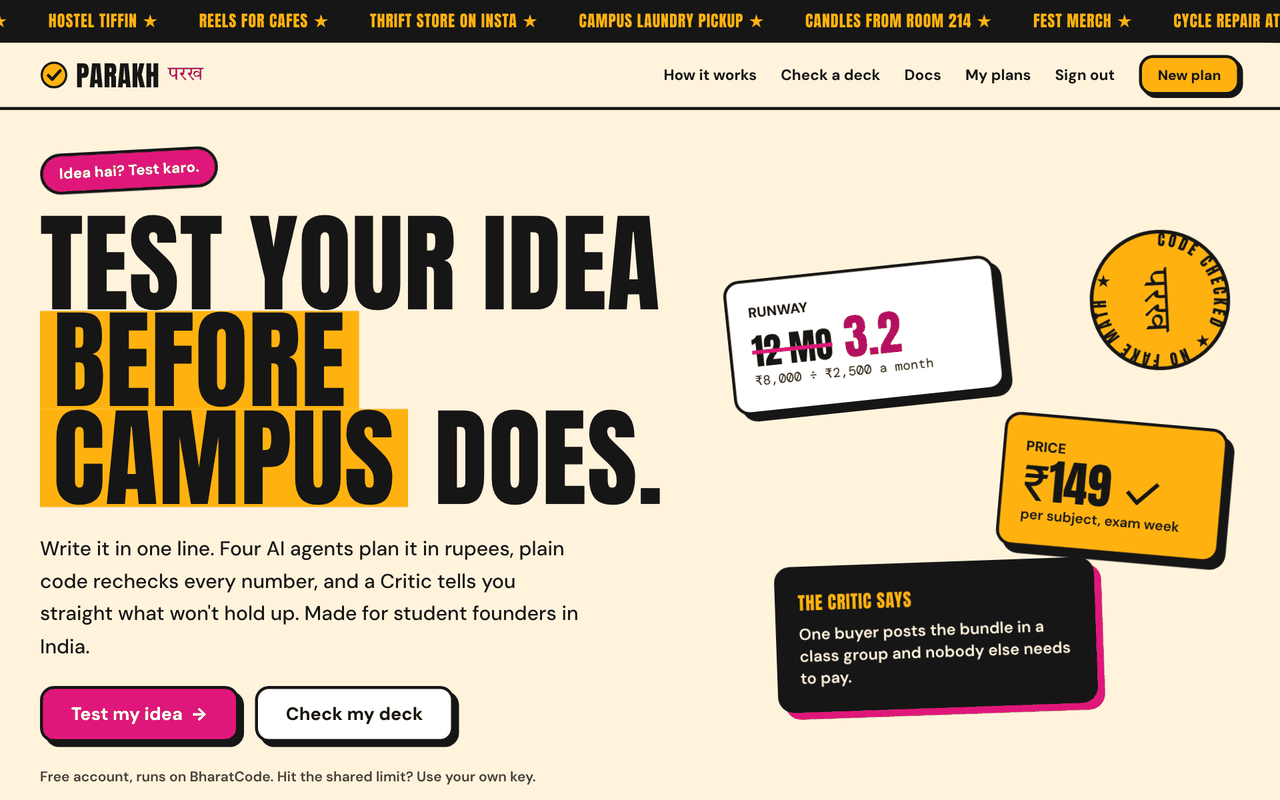
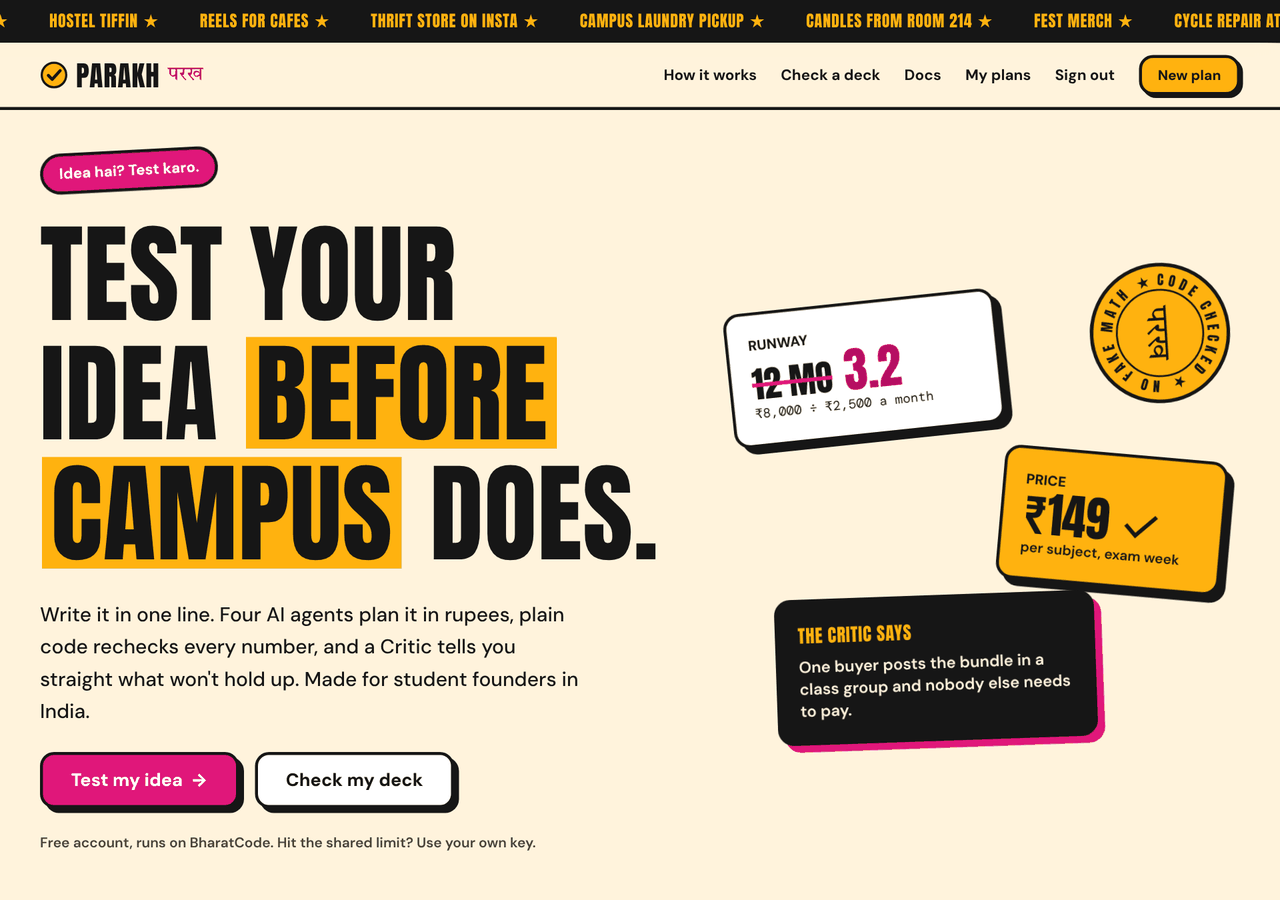
README: fresh screenshots of the deployed UI, plus the new chat
Retaken from commit 843d648 (the deployed one) with the real fonts: even
heading highlights, the new stamp, and the Claude-style chat. Test count
badge updated to 110.

Claude-Session: https://claude.ai/code/session_01FLQTQNoyvFKWee6FJtSirA

diff --git a/README.md b/README.md
@@ -16,7 +16,7 @@ Type your startup idea in one line. Four AI agents plan it in rupees, plain Pyth
 ![Next.js](https://img.shields.io/badge/Next.js-16-000000?logo=nextdotjs&logoColor=white)
 ![Tailwind](https://img.shields.io/badge/Tailwind-v4-06B6D4?logo=tailwindcss&logoColor=white)
 ![Supabase](https://img.shields.io/badge/Supabase-auth%20%2B%20Postgres-3ECF8E?logo=supabase&logoColor=white)
-![Tests](https://img.shields.io/badge/tests-106%20passing-2EA44F)
+![Tests](https://img.shields.io/badge/tests-110%20passing-2EA44F)
 
 [Features](#what-parakh-does) · [How it works](#how-it-works) · [AI providers](#ai-providers-bharatcode-first) · [Results](#measured-results) · [Run it locally](#run-it-locally) · [Deploy](#deploy) · [API](#api-reference)
 
@@ -107,7 +107,11 @@ BharatCode runs everything by default, free on the shared quota. If you already 
 
 ### 💬 Ask the agents
 
-After the plan, ask follow-ups like "@Economics what if I charge ₹99?" and get answers grounded in your plan's numbers, in English or **Hinglish**.
+After the plan, ask follow-ups like "@Economics what if I charge ₹99?" and get answers grounded in your plan's numbers, in English or **Hinglish**. Pick an agent with one click, and the answer comes back formatted, with the working shown.
+
+<div align="center">
+<img src="docs/images/chat.png" alt="Asking the Economics agent what happens at a ₹99 price" width="760">
+</div>
 
 ### 🔗 Share, privately by default
 
@@ -448,7 +452,7 @@ Visitors' own provider keys are **not** configuration. They're pasted in the app
 ### Automated
 
 ```bash
-python -m pytest            # 106 tests, every model call faked, no key needed
+python -m pytest            # 110 tests, every model call faked, no key needed
 ```
 
 | File | Covers |
@@ -589,7 +593,7 @@ parakh/
 ├── render.yaml            Render blueprint for the API
 ├── BharatCode.txt         how Parakh uses BharatCode (hackathon requirement)
 ├── scripts/               eval harness, price check, example plan, BharatCode probe
-├── tests/                 106 pytest tests, every model call faked
+├── tests/                 110 pytest tests, every model call faked
 ├── examples/              a sample deck slide with 4 planted mistakes
 ├── docs/images/           README screenshots
 └── parakh-frontend/       Next.js 16 app
